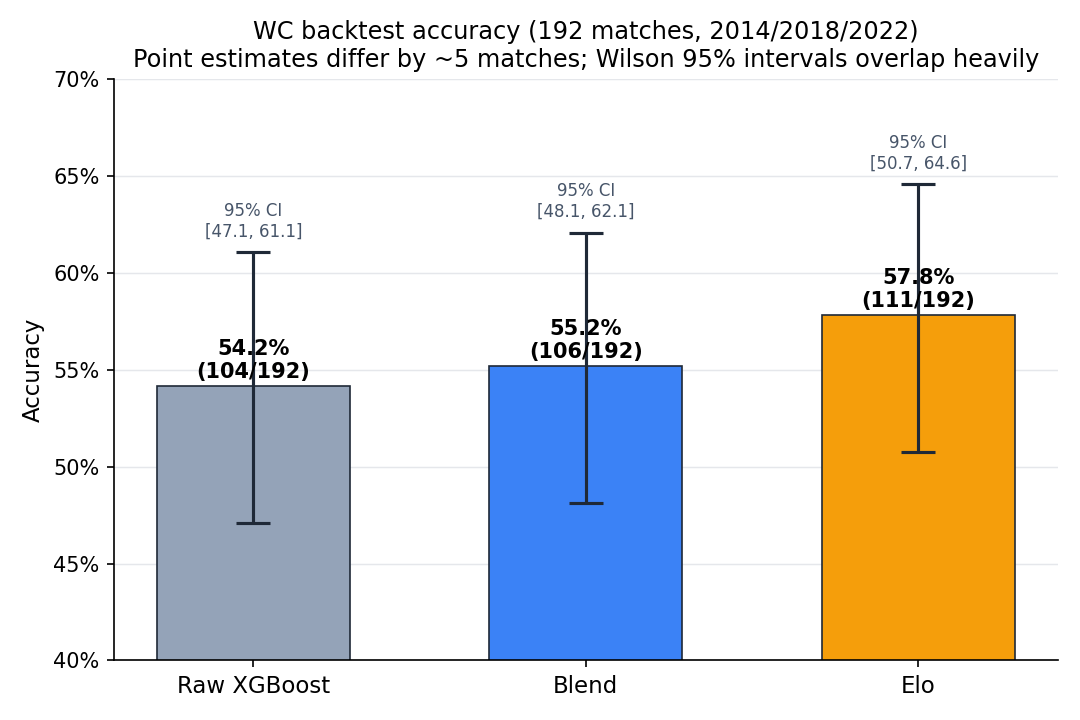
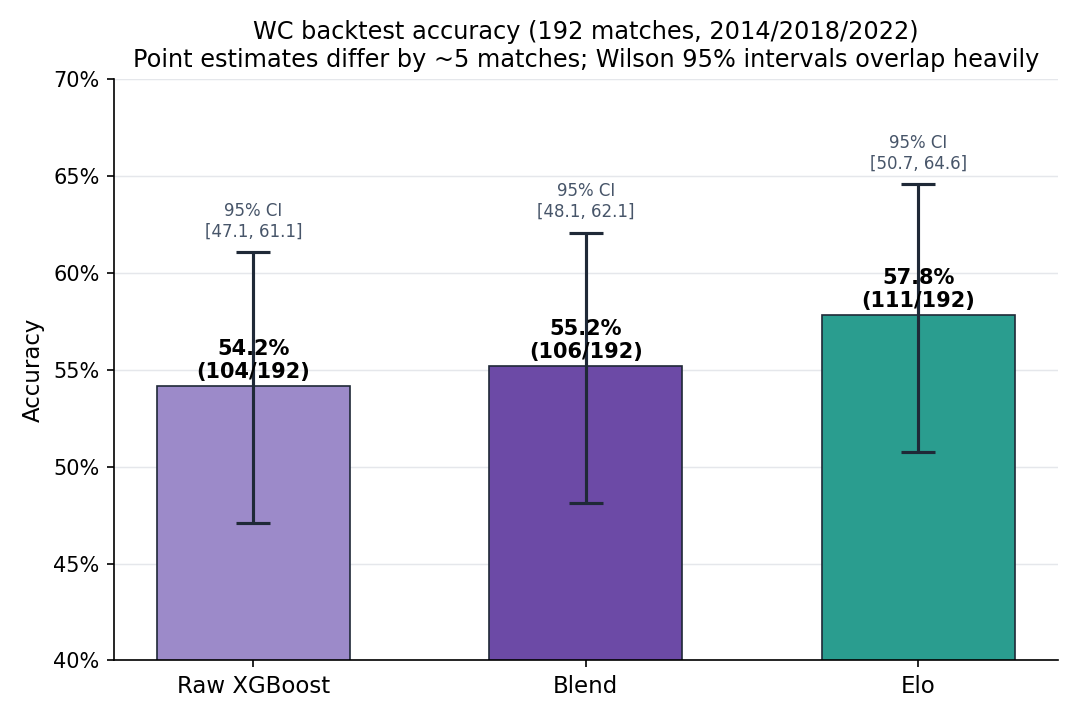
Recolour Figure 4 bars to the system palette

Changed region(s): [[0.4278, 0.4889, 0.6417, 0.9167], [0.7639, 0.4278, 0.9472, 0.9167], [0.1222, 0.5194, 0.3361, 0.9167]]

diff --git a/src/make_figures.py b/src/make_figures.py
@@ -23,11 +23,18 @@ import matplotlib.pyplot as plt
 REPORTS_DIR = Path(__file__).resolve().parents[1] / "reports"
 FIG_DIR = REPORTS_DIR / "figures"
 
-# Shared colours — keep the article visually consistent with the app.
-COL_XGB = "#94a3b8"   # slate
-COL_BLEND = "#3b82f6"  # home blue (the production model)
-COL_ELO = "#f59e0b"   # amber
+# Outcome palette — RESERVED for match outcomes (home/draw/away). Used by
+# Figure 5 (reliability) only; mirrors the app's blue/grey/amber convention.
 CLASS_COLORS = {"home": "#3b82f6", "draw": "#93a1c8", "away": "#f59e0b"}
+
+# System palette — for figures that compare the three SYSTEMS (Figures 3 & 4).
+# Deliberately NOT the outcome blue/grey/amber: violet family = "my models",
+# teal = the Elo benchmark that beat them, set visually apart.
+SYSTEM_COLORS = {
+    "Raw XGBoost":  "#9C8AC9",   # light violet
+    "Blend":        "#6C4AA6",   # deep violet (production model)
+    "Elo baseline": "#2A9D8F",   # teal (the benchmark)
+}
 
 
 # --------------------------------------------------------------------------- #
@@ -115,9 +122,9 @@ def figure4(df: pd.DataFrame) -> None:
     y = df["y_true"].values
 
     specs = [
-        ("Raw XGBoost", ["xgb_home", "xgb_draw", "xgb_away"], COL_XGB),
-        ("Blend",       ["blend_home", "blend_draw", "blend_away"], COL_BLEND),
-        ("Elo",         ["elo_home", "elo_draw", "elo_away"], COL_ELO),
+        ("Raw XGBoost", ["xgb_home", "xgb_draw", "xgb_away"], SYSTEM_COLORS["Raw XGBoost"]),
+        ("Blend",       ["blend_home", "blend_draw", "blend_away"], SYSTEM_COLORS["Blend"]),
+        ("Elo",         ["elo_home", "elo_draw", "elo_away"], SYSTEM_COLORS["Elo baseline"]),
     ]
 
     labels, ks, accs, los, his, colors = [], [], [], [], [], []
